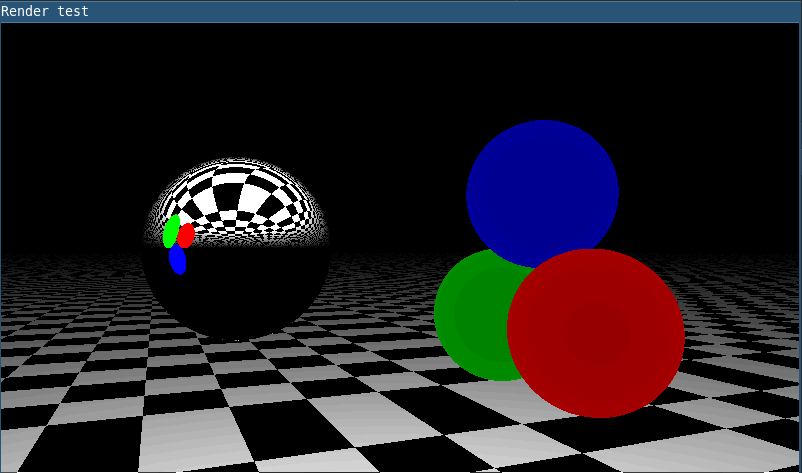
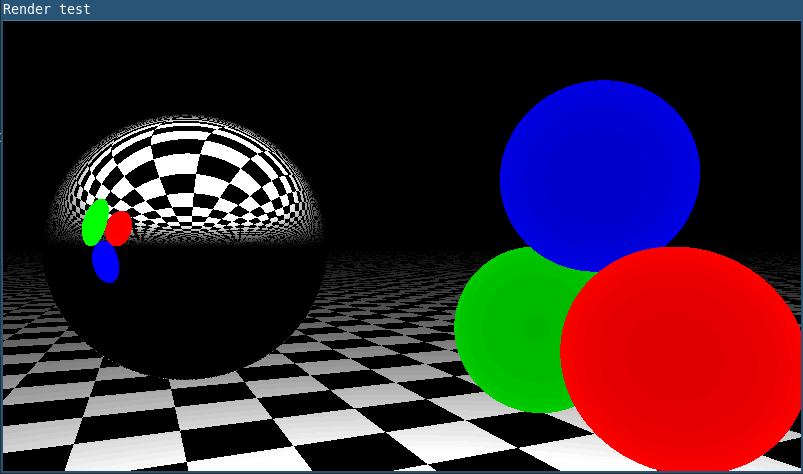
plane sinking fix

diff --git a/src/Main.java b/src/Main.java
@@ -14,11 +14,13 @@ public class Main extends JPanel implements KeyListener {
     private boolean KA_DOWN = false;
     private boolean KS_DOWN = false;
     private boolean KD_DOWN = false;
+    private boolean KR_DOWN = false;
+    private boolean KF_DOWN = false;
 
     private boolean KE_DOWN = false;
     private boolean KQ_DOWN = false;
-    private boolean KR_DOWN = false;
-    private boolean KF_DOWN = false;
+    private boolean KT_DOWN = false;
+    private boolean KG_DOWN = false;
 
     private float move_velocity = 0.2f;
     private float rot_velocity = 0.1f;
@@ -57,6 +59,14 @@ public class Main extends JPanel implements KeyListener {
                 KF_DOWN = true;
                 break;
 
+            case KeyEvent.VK_T:
+                KT_DOWN = true;
+                break;
+            case KeyEvent.VK_G:
+                KG_DOWN = true;
+                break;
+
+
             case KeyEvent.VK_SPACE:
                 camera.space_default();
                 break;
@@ -92,6 +102,13 @@ public class Main extends JPanel implements KeyListener {
                 KF_DOWN = false;
                 break;
 
+            case KeyEvent.VK_T:
+                KT_DOWN = false;
+                break;
+            case KeyEvent.VK_G:
+                KG_DOWN = false;
+                break;
+
         }
     }
 
@@ -123,13 +140,14 @@ public class Main extends JPanel implements KeyListener {
         if (KS_DOWN) camera.move_forward(-move_velocity);
         if (KD_DOWN) camera.move_right(move_velocity);
         if (KA_DOWN) camera.move_right(-move_velocity);
+        if (KR_DOWN) camera.move_up(move_velocity);
+        if (KF_DOWN) camera.move_up(-move_velocity);
 
         // camera rotation
         if (KE_DOWN) camera.yaw(rot_velocity);
         if (KQ_DOWN) camera.yaw(-rot_velocity);
-        if (KR_DOWN) camera.pitch(rot_velocity);
-        if (KF_DOWN) camera.pitch(-rot_velocity);
-
+        if (KG_DOWN) camera.pitch(rot_velocity);
+        if (KT_DOWN) camera.pitch(-rot_velocity);
 
         camera.render_perspective(renderables);
         graphics.drawImage(camera.getImage(), 0, 0, null);

diff --git a/src/Plane.java b/src/Plane.java
@@ -25,7 +25,7 @@ public class Plane extends Renderable {
     @Override
     public Color colorHit(Ray ray) {
         float t = touch(ray);
-        if (Float.isNaN(t)) return color.BLACK;
+        if (Float.isNaN(t) || t <= 0) return color.BLACK;
 
         Vec3 point = ray.point(t);
         int x = (int)Math.ceil(point.getX()), y = (int)Math.ceil(point.getY());
@@ -36,13 +36,15 @@ public class Plane extends Renderable {
             c = Color.BLACK;
         }
 
+        if (t <= 0.01) return c; // a hack to make it not crash when perpendicularly sinking into plane
+
         int red = c.getRed();
         int green = c.getGreen();
         int blue = c.getBlue();
 
-        red = Math.min(red, 6*(int)(red / (t)));
-        green = Math.min(green, 6*(int)(green / (t)));
-        blue = Math.min(blue, 6*(int)(blue / (t)));
+        red = Math.min(c.getRed(),      6*(int)(red / t)  );
+        green = Math.min(c.getGreen(),  6*(int)(green / t));
+        blue = Math.min(c.getBlue(),    6*(int)(blue / t) );
 
         //return color;
         return new Color(red, green, blue);

diff --git a/src/MirrorSphere.java b/src/MirrorSphere.java
@@ -7,10 +7,11 @@ public class MirrorSphere extends Sphere {
     }
 
     public Color colorHit(Ray ray, ArrayList<Renderable> renderables) {
-        float t = touch(ray);
+        float t = super.touch(ray);
         if (Float.isNaN(t)) return Color.BLACK;
 
-        Ray reflect = ray.reflect(this.rhat(ray.point(t)), t);
+        Vec3 rhat = super.rhat(ray.point(t));
+        Ray reflect = ray.reflect(rhat, t);
 
         float min_dist = Float.MAX_VALUE;
         Color c = Color.black;

diff --git a/src/Vec3.java b/src/Vec3.java
@@ -42,7 +42,7 @@ public class Vec3 {
     }
 
     public Vec3 proj(Vec3 B) {
-        return B.scale(this.dot(B) / B.dot(B));
+        return B.scale(dot(B) / B.dot(B));
     }
 
     public Vec3 negate() {
@@ -50,7 +50,7 @@ public class Vec3 {
     }
 
     public float dot(Vec3 vec) {
-        return x * vec.x + y * vec.y + z * vec.z;
+        return (x * vec.x) + (y * vec.y) + (z * vec.z);
     }
 
     public Vec3 unit() {

diff --git a/src/Ray.java b/src/Ray.java
@@ -21,8 +21,8 @@ public class Ray {
 
     public Ray reflect(Vec3 norm, float t) {
         Vec3 O = point(t);
-        Vec3 D = direction.add(direction.proj(norm).scale(-2)).unit();
-        return new Ray(O, D);
+        Vec3 D = direction.sub(direction.proj(norm).scale(2)).unit();
+        return new Ray(O,D);
     }
 }
 
